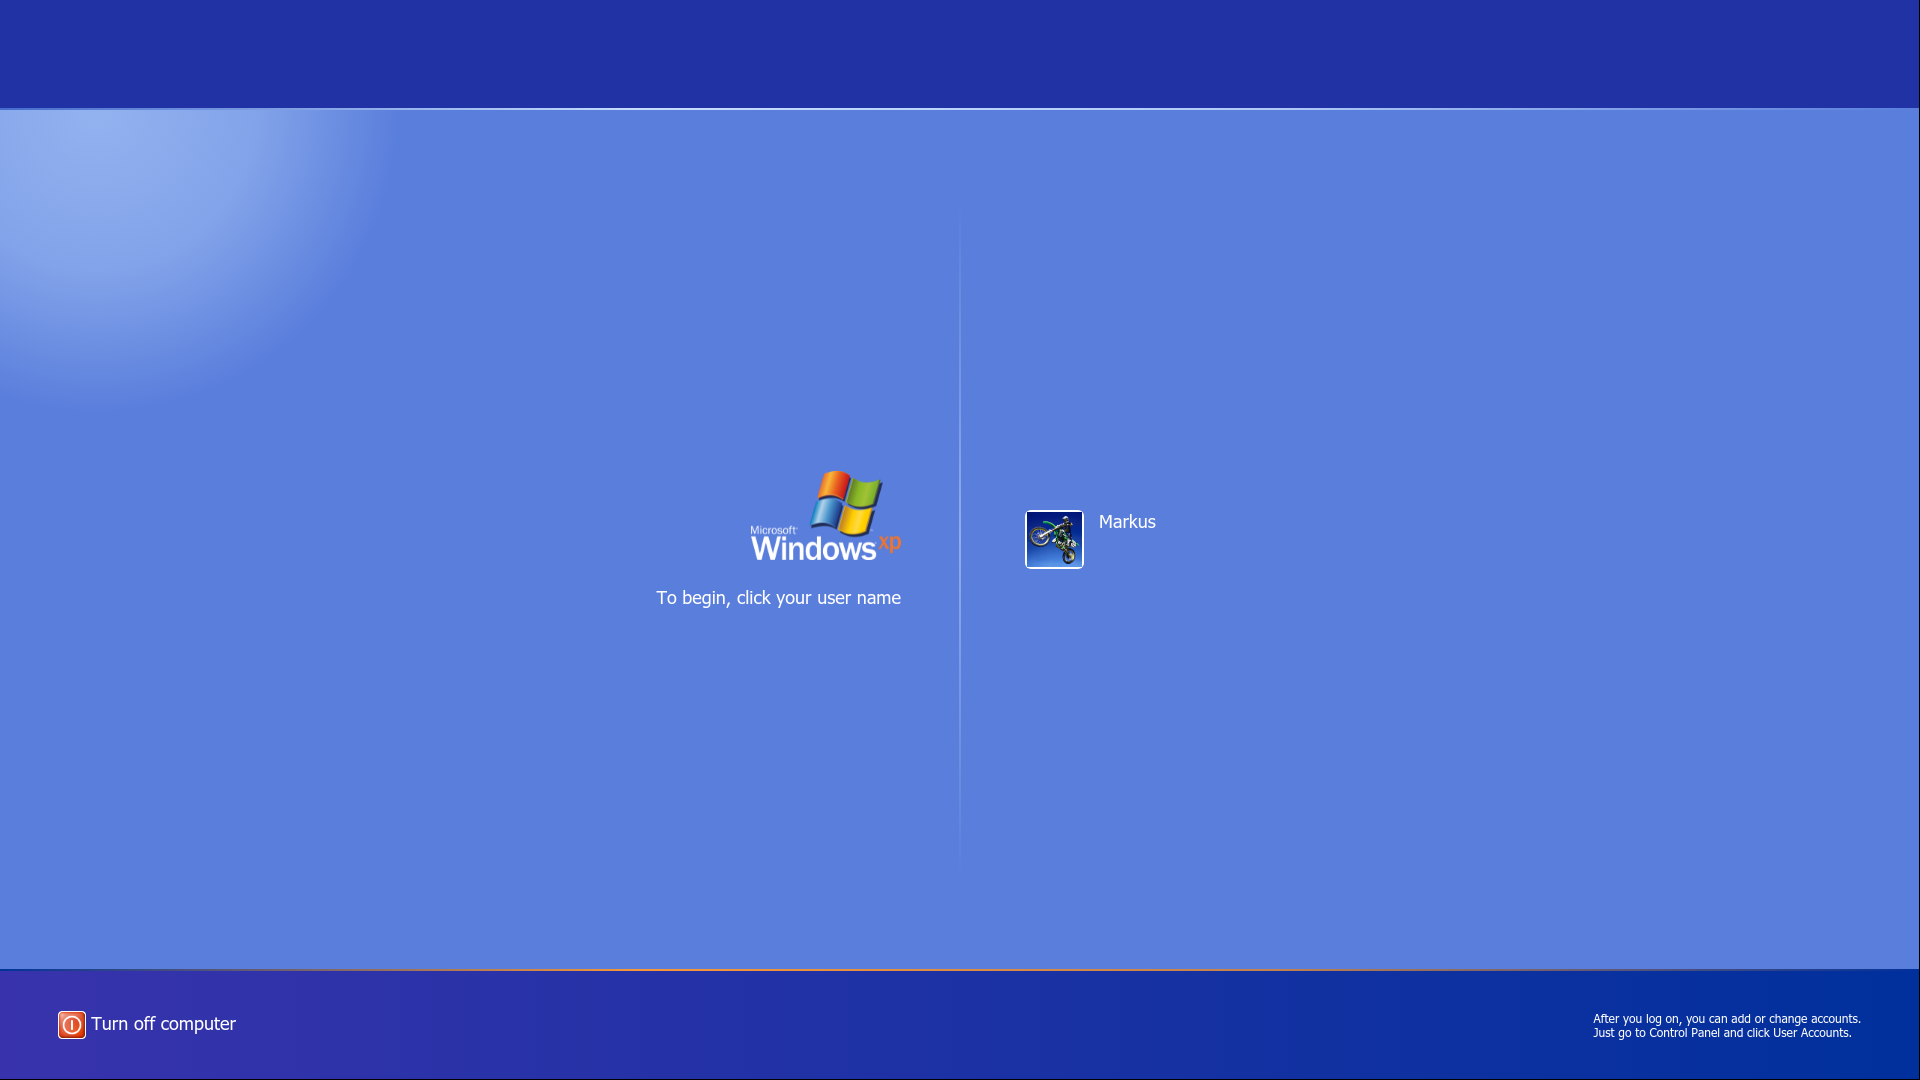
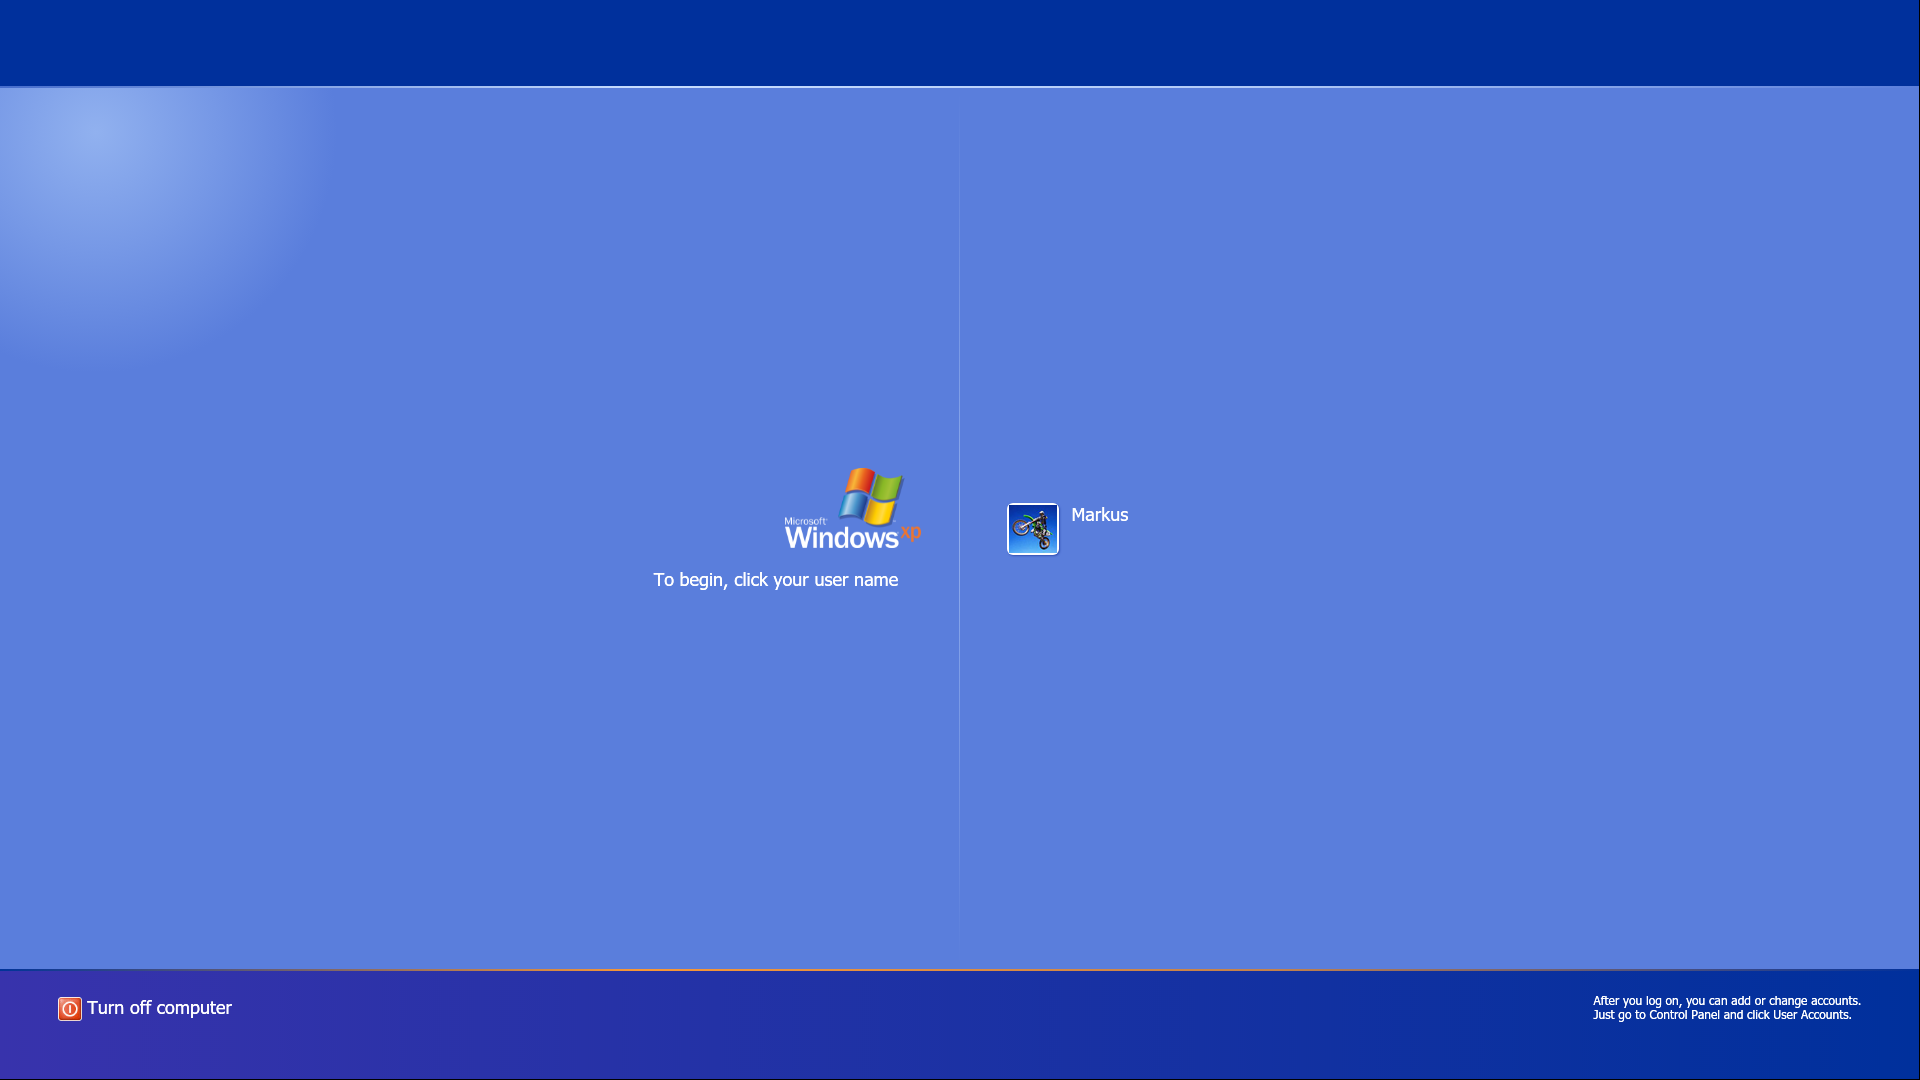
Update screenshots & README.

diff --git a/README.md b/README.md
@@ -28,25 +28,17 @@ Login:
 
 ![login](screenshot/login.png)
 
-Selected User:
-
-![user_selected](screenshot/user_selected.png)
-
-Incorrect Password:
-
-![incorrect_password](screenshot/incorrect_password.png)
-
 Welcome Screen:
 
 ![welcome](screenshot/welcome.png)
 
-Shutdown Options:
+WelcomeXP vs Original:
 
-![shutdown_options](screenshot/shutdown_options.png)
+![login_comparison](screenshot/login-comparison.png)
 
-Multiple Users:
+![password_error_comparison](screenshot/password-error-comparison.png)
 
-![multiple_users](screenshot/multiple_users.png)
+![shutdown_prompt_comparison](screenshot/shutdown-prompt-comparison.png)
 
 # Warnings
 If you have no experience installing or configuring greeters then I recommend you have extreme caution installing this theme; avoid it if you are not comfortable with the possibility of recovering your login screen from the command line. While I have not come across any severe issues using the theme on a daily basis myself, I may continue to make small changes that could affect stability in the future. A broken web-greeter theme can prevent you from logging in graphically. In this case, you can switch to another tty and revert changes to the configurations from the command-line using an editor like `nano`. While I do not plan to push breaking changes, I do not make any guarantees over this project and would not want someone to break their system who would have a hard time restoring it.
